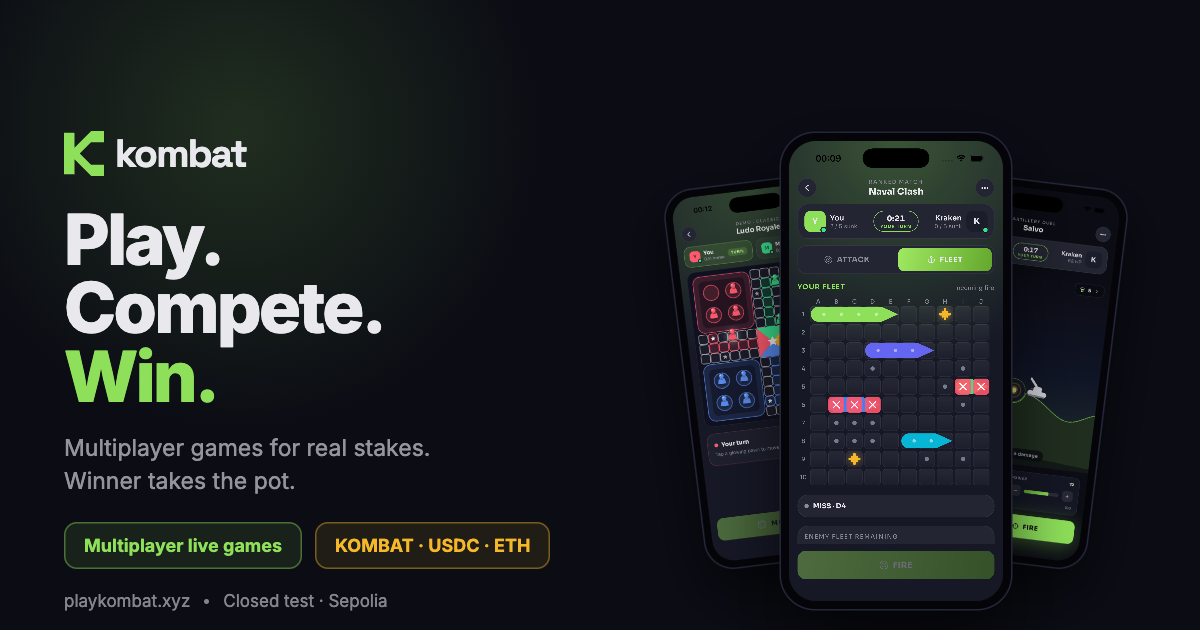
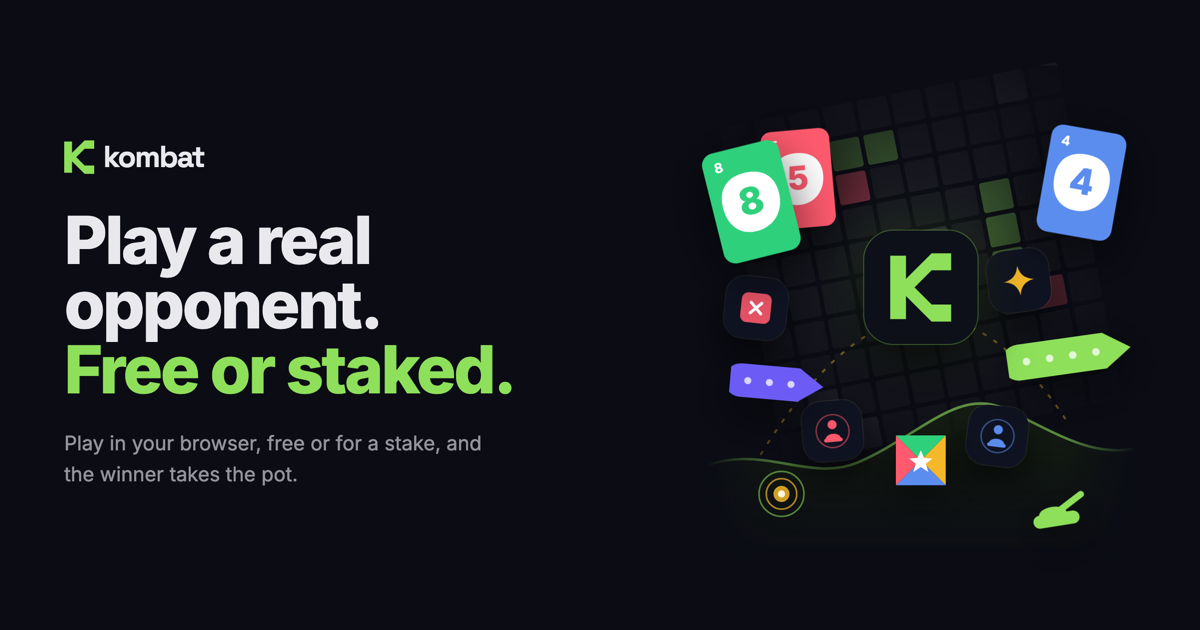
feat(web): the link preview shows the hero
og.png is now a still of the real collage component beside the
headline and wordmark, captured at 1200x630, so the card matches the
page it links to. Its alt text stops describing phones that are no
longer there.

The stake-pot heading also names the pot rather than the signature it
saves.

diff --git a/apps/web/src/app/page.tsx b/apps/web/src/app/page.tsx
@@ -145,7 +145,9 @@ export default function LandingPage() {
           <div className={`${styles.kicker} ${styles.kickerAmber}`}>
             The stake pot
           </div>
-          <h2 className={styles.sectionTitle}>Sign once. Play all night.</h2>
+          <h2 className={styles.sectionTitle}>
+            One deposit covers every match.
+          </h2>
           <p className={styles.sectionLead}>
             If you do want to play for something, your pot is a balance held in
             the match contract. Fund it once from any wallet and staked matches

diff --git a/apps/web/src/app/layout.tsx b/apps/web/src/app/layout.tsx
@@ -37,7 +37,7 @@ export const metadata: Metadata = {
         url: "/og.png",
         width: 1200,
         height: 630,
-        alt: "Kombat - multiplayer games for real stakes, shown on three phones",
+        alt: "Kombat - play a real opponent, free or staked",
       },
     ],
   },
